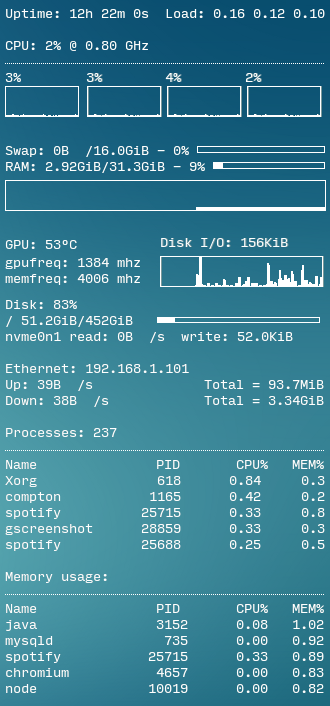
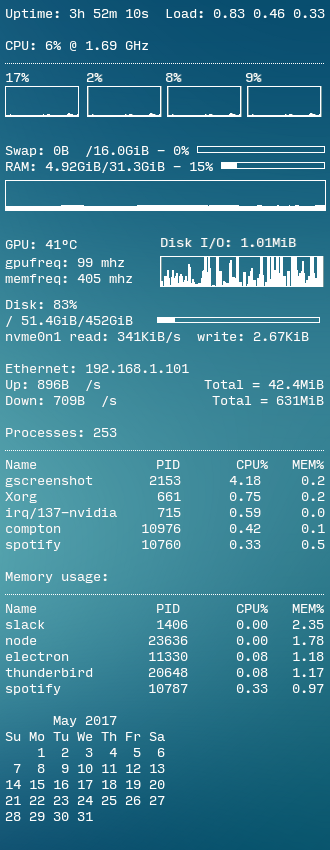
added calendar

diff --git a/README.md b/README.md
@@ -12,10 +12,11 @@ A cool conky theme.
 - Disk (usage, read/write)
 - Ethernet (local IP, up/down speed)
 - Processes (top 5, usage)
+- Calendar
 
 ### Screenshot
 
-![cool-conky](http://github.marconijr.com/cool-conky/screenshot.png)
+![cool-conky](http://github.marconijr.com/cool-conky/screenshot.png?v=1)
 
 ### Usage
 
